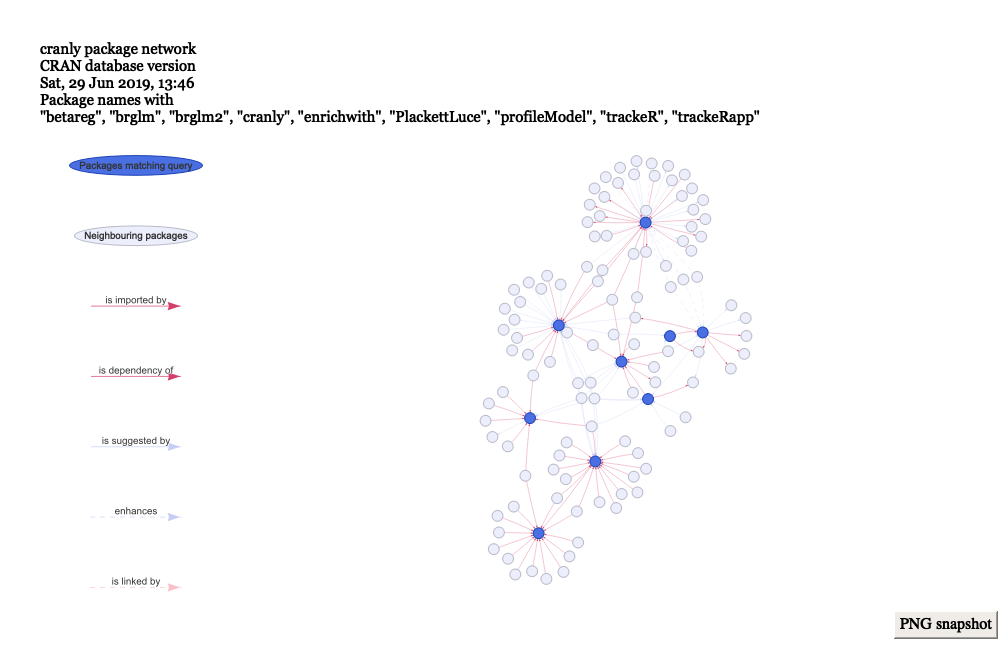
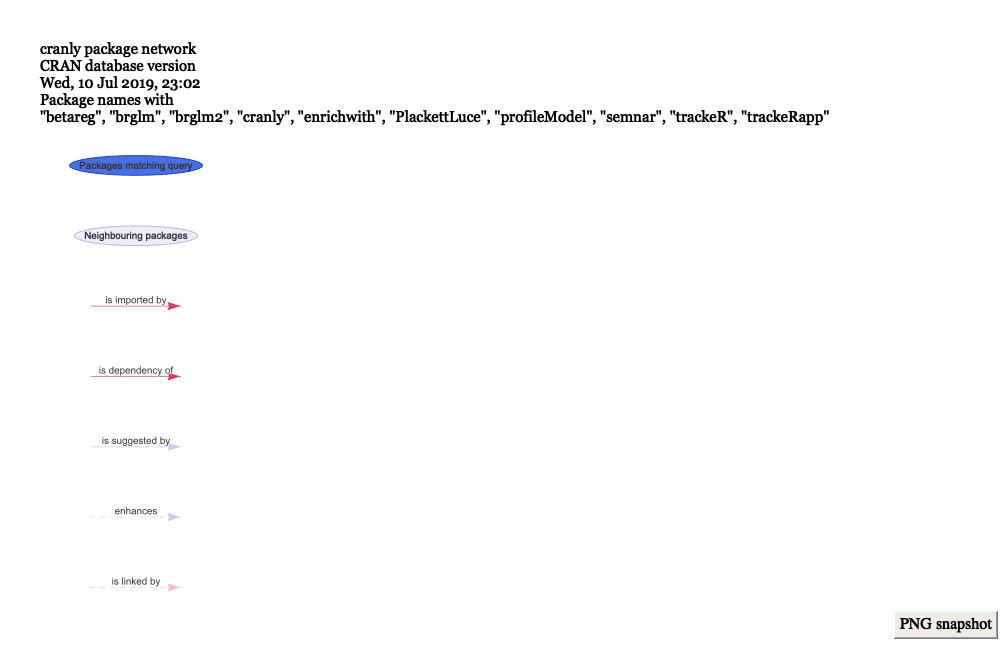
News and readme

diff --git a/README.md b/README.md
@@ -31,10 +31,8 @@ analyses and modelling.
 
 Install the development version from github:
 
-``` r
-# install.packages("devtools")
-devtools::install_github("ikosmidis/cranly")
-```
+    # install.packages("devtools")
+    devtools::install_github("ikosmidis/cranly")
 
 ### Collaboration and package directives networks in CRAN
 
@@ -42,61 +40,47 @@ The first step in the **cranly** workflow is to try and “clean-up” the
 package and author names in the data frame that results from a call to
 `tools::CRAN_package_db()`
 
-``` r
-p_db <- tools::CRAN_package_db()
-package_db <- clean_CRAN_db(p_db)
-```
+    p_db <- tools::CRAN_package_db()
+    package_db <- clean_CRAN_db(p_db)
 
 The CRAN database we use is from
 
-``` r
-attr(package_db, "timestamp")
-#> [1] "2019-06-29 13:46:16 BST"
-```
+    attr(package_db, "timestamp")
+    #> [1] "2019-07-10 23:02:11 BST"
 
 #### Package directives networks
 
 The package directives network can then be built using
 
-``` r
-package_network <- build_network(package_db)
-```
+    package_network <- build_network(package_db)
 
 `package_network` can then be interrogated using extractor methods (see,
 `?package_by`). For example, my packages can be extracted as follows
 
-``` r
-my_packages <- package_by(package_network, "Ioannis Kosmidis")
-my_packages
-#> [1] "betareg"      "brglm"        "brglm2"       "cranly"      
-#> [5] "enrichwith"   "PlackettLuce" "profileModel" "trackeR"     
-#> [9] "trackeRapp"
-```
+    my_packages <- package_by(package_network, "Ioannis Kosmidis")
+    my_packages
+    #>  [1] "betareg"      "brglm"        "brglm2"       "cranly"      
+    #>  [5] "enrichwith"   "PlackettLuce" "profileModel" "semnar"      
+    #>  [9] "trackeR"      "trackeRapp"
 
 and their sub-network of directives can be summarized in an interactive
 visualization, a shapshot of which is below
 
-``` r
-plot(package_network, package = my_packages, title = TRUE, legend = TRUE)
-```
+    plot(package_network, package = my_packages, title = TRUE, legend = TRUE)
 
 ![](inst/README_files/README-unnamed-chunk-6-1.png)
 
 We can also compute package summaries and plot “Top-n” lists according
 to the various summaries
 
-``` r
-package_summaries <- summary(package_network)
-#> Warning in closeness(cranly_graph, normalized = FALSE): At centrality.c:
-#> 2784 :closeness centrality is not well-defined for disconnected graphs
-plot(package_summaries, according_to = "n_imported_by", top = 20)
-```
+    package_summaries <- summary(package_network)
+    #> Warning in closeness(cranly_graph, normalized = FALSE): At centrality.c:
+    #> 2784 :closeness centrality is not well-defined for disconnected graphs
+    plot(package_summaries, according_to = "n_imported_by", top = 20)
 
 ![](inst/README_files/README-unnamed-chunk-7-1.png)
 
-``` r
-plot(package_summaries, according_to = "page_rank", top = 20)
-```
+    plot(package_summaries, according_to = "page_rank", top = 20)
 
 ![](inst/README_files/README-unnamed-chunk-7-2.png)
 
@@ -104,41 +88,31 @@ plot(package_summaries, according_to = "page_rank", top = 20)
 
 The collaboration network can also be built using a similar call
 
-``` r
-author_network <- build_network(package_db, perspective = "author")
-```
+    author_network <- build_network(package_db, perspective = "author")
 
 and the extractor functions work exactly as they did for the package
 directives network. For example, my collaboration network results can be
 summarized as an interactive visualization, a shapshot of which is below
 
-``` r
-plot(author_network, author = "Ioannis Kosmidis")
-```
+    plot(author_network, author = "Ioannis Kosmidis")
 
 ![](inst/README_files/README-unnamed-chunk-9-1.png)
 
 “Top-n” collaborators according to various summaries can again be
 computed
 
-``` r
-author_summaries <- summary(author_network)
-#> Warning in closeness(cranly_graph, normalized = FALSE): At centrality.c:
-#> 2784 :closeness centrality is not well-defined for disconnected graphs
-plot(author_summaries, according_to = "n_collaborators", top = 20)
-```
+    author_summaries <- summary(author_network)
+    #> Warning in closeness(cranly_graph, normalized = FALSE): At centrality.c:
+    #> 2784 :closeness centrality is not well-defined for disconnected graphs
+    plot(author_summaries, according_to = "n_collaborators", top = 20)
 
 ![](inst/README_files/README-unnamed-chunk-10-1.png)
 
-``` r
-plot(author_summaries, according_to = "n_packages", top = 20)
-```
+    plot(author_summaries, according_to = "n_packages", top = 20)
 
 ![](inst/README_files/README-unnamed-chunk-10-2.png)
 
-``` r
-plot(author_summaries, according_to = "page_rank", top = 20)
-```
+    plot(author_summaries, according_to = "page_rank", top = 20)
 
 ![](inst/README_files/README-unnamed-chunk-10-3.png)
 
@@ -157,10 +131,8 @@ produced some neat visuals for the package
 For example, the dependence tree of the **PlackettLuce** R package I am
 co-authoring is
 
-``` r
-PL_dependence_tree <- build_dependence_tree(package_network, "PlackettLuce")
-plot(PL_dependence_tree)
-```
+    PL_dependence_tree <- build_dependence_tree(package_network, "PlackettLuce")
+    plot(PL_dependence_tree)
 
 ![](inst/README_files/README-unnamed-chunk-11-1.png)
 
@@ -168,21 +140,19 @@ plot(PL_dependence_tree)
 ?summary.cranly\_dependence\_tree for mathematical details). The closer
 that is to 0 the “lighter” the package is
 
-``` r
-summary(PL_dependence_tree)
-#> $package
-#> [1] "PlackettLuce"
-#> 
-#> $n_generations
-#> [1] 3
-#> 
-#> $parents
-#> [1] "igraph"      "Matrix"      "partykit"    "psychotools" "psychotree" 
-#> [6] "qvcalc"      "rARPACK"     "sandwich"   
-#> 
-#> $dependence_index
-#> [1] 0.3835101
-```
+    summary(PL_dependence_tree)
+    #> $package
+    #> [1] "PlackettLuce"
+    #> 
+    #> $n_generations
+    #> [1] 3
+    #> 
+    #> $parents
+    #> [1] "igraph"      "Matrix"      "partykit"    "psychotools" "psychotree" 
+    #> [6] "qvcalc"      "rARPACK"     "sandwich"   
+    #> 
+    #> $dependence_index
+    #> [1] 0.385751
 
 Check the package vignettes for a more comprehensive tour of the package
 and for network visualisations on authors with orders of magnitude

diff --git a/NEWS.md b/NEWS.md
@@ -1,3 +1,16 @@
+# cranly 0.5
+
+## Other improvements, updates and addition
+* Moved to roxygen2 with rmarkdown
+* Major documentation updates
+* New improved codebased for extractor functions (see `?extractor-functions`)
+* `date` and `published` in `cranly_db` objects are now of class `Date`
+* `cranly_network_objects` with `perspective = "package` carry maintainer and maintainer email information
+
+
+## New functionality
+* New extractor functions: `maintainer_of`, `maintained_by`, `email_of`, `email_with`, `description_of`, `title_of`, `license_of`, `version_of`, `release_date_of` (see `?extractor-functions`)
+
 # cranly 0.3
 
 ## Bug fixes
